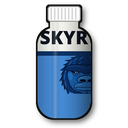
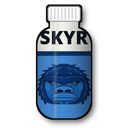
Center the gorilla on the Skyr bottle

Changed region(s): [[0.2812, 0.4375, 0.7188, 0.8438]]

diff --git a/tools/make_icons.py b/tools/make_icons.py
@@ -180,8 +180,10 @@ def draw_skyr():
     ad = ImageDraw.Draw(art)
     ad.rectangle([0, 0, W, H], fill=main)
     gorilla = draw_full_face("blue")
-    gorilla = gorilla.resize((230, int(230 * gorilla.height / gorilla.width)), Image.LANCZOS)
-    art.alpha_composite(gorilla, (232, 214))
+    gw = right - left + 20
+    gorilla = gorilla.resize((gw, int(gw * gorilla.height / gorilla.width)), Image.LANCZOS)
+    # centred on the bottle, in the blue part below the band (the mane may touch the edges)
+    art.alpha_composite(gorilla, ((left + right - gorilla.width) // 2, 336 - gorilla.height // 2))
     ad.rectangle([0, 0, W, 205], fill=(246, 246, 240))                      # white shoulder
     font = ImageFont.truetype(FONT_HEAVY, 74)
     tb = ad.textbbox((0, 0), "SKYR", font=font)
